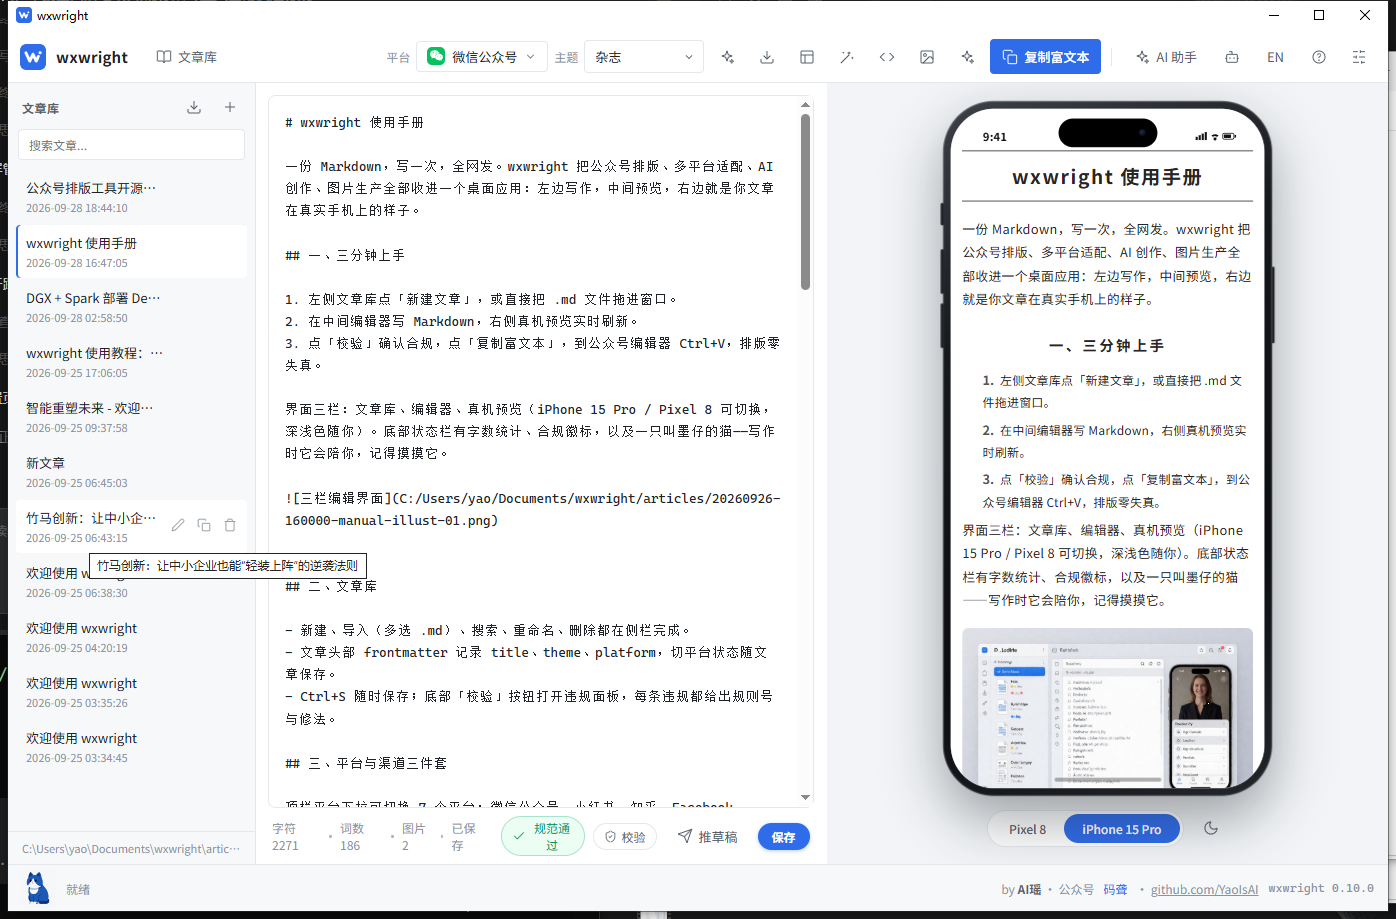
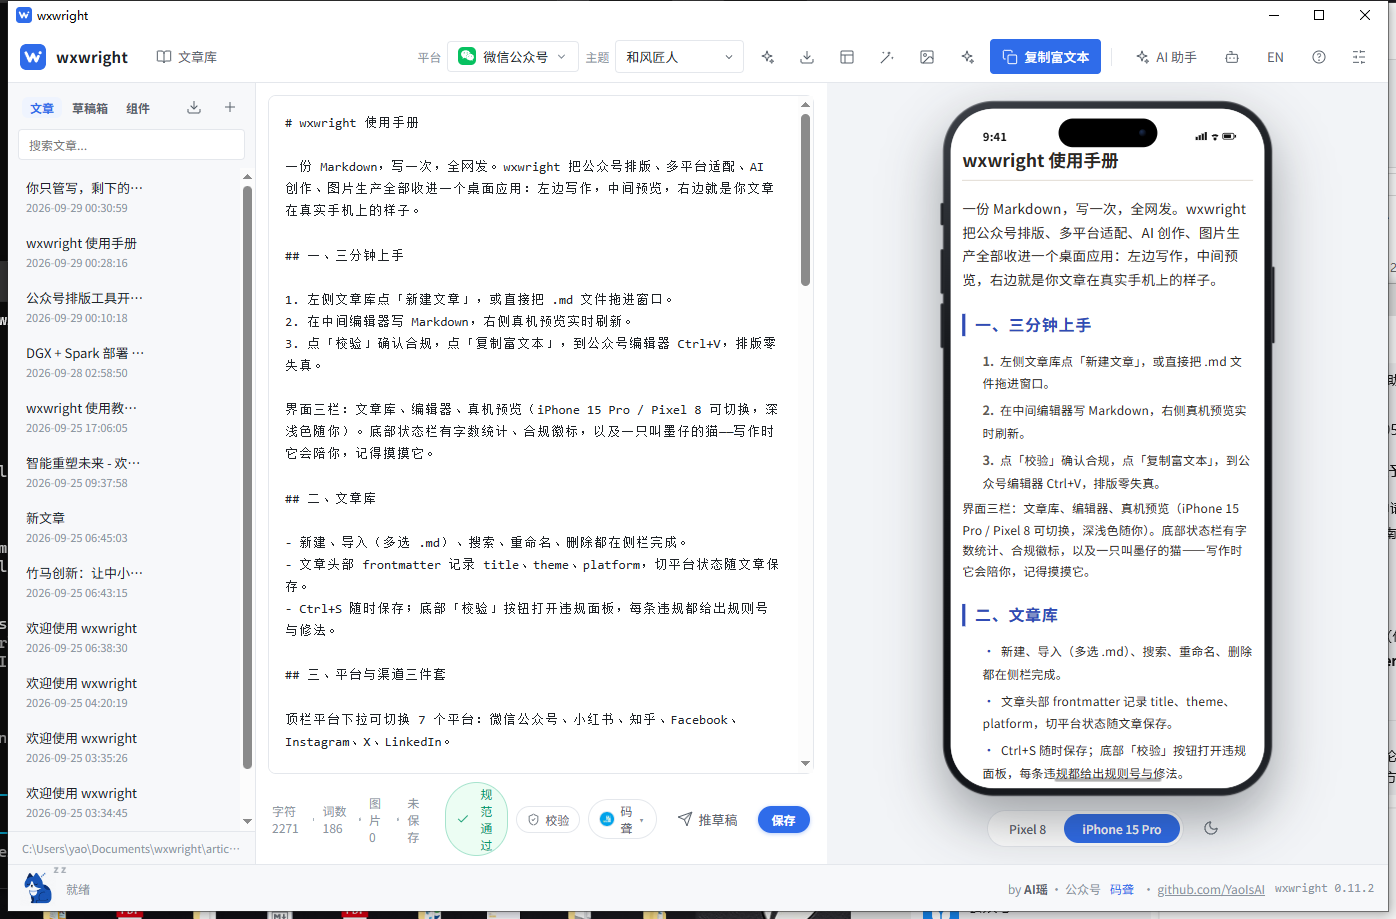
chore: release v0.12.1 - refreshed docs and screenshots
- READMEs: multi-account WeChat binding with avatar switching, the kit's
  vertical cards / parametric AI components / undo / pinning, ComfyUI
  browse actions; download table and examples bumped to 0.12.1
- Illustrated manual: retaken shots for the main window, MP settings
  (account row with avatar), SVG kit (sidebar tab), ComfyUI pane (browse
  buttons) and the help center; text updated to match the new surfaces
- Version bump: Cargo.toml, tauri.conf.json, about line, changelog dated

diff --git a/gui/ui/app.js b/gui/ui/app.js
@@ -141,7 +141,7 @@ const I18N = {
     comfy_launch_label: "启动程序路径（用于一键启动）", comfy_start: "一键启动",
     comfy_browse_models: "获取模型列表", comfy_browse: "浏览",
     comfy_models_ok: (n) => `已拉取 ${n} 个模型，点击输入框即可选择`, comfy_models_none: "未拉取到模型，请确认 ComfyUI 在线且已放好模型",
-    about_line1: "wxwright 0.12.0 · by AI瑶（微信公众号：码聋）",
+    about_line1: "wxwright 0.12.1 · by AI瑶（微信公众号：码聋）",
     about_line2: "写作小宠物「墨仔」住在左下角状态栏，记得去摸摸它。",
     chip_jp: "日系手账", chip_jp_desc: "日系手账风，奶油色底，橙棕强调色，圆角便签卡片，温柔文艺",
     chip_cyber: "赛博科技", chip_cyber_desc: "赛博科技感，深色代码面板，霓虹青蓝强调色，等宽律动",
@@ -299,7 +299,7 @@ const I18N = {
     comfy_launch_label: "Launcher path (for one-click start)", comfy_start: "Start",
     comfy_browse_models: "Fetch models", comfy_browse: "Browse",
     comfy_models_ok: (n) => `Fetched ${n} models - click the input to pick one`, comfy_models_none: "No models returned; check that ComfyUI is online and has checkpoints",
-    about_line1: "wxwright 0.12.0 - by AI Yao (MP: MaLong)",
+    about_line1: "wxwright 0.12.1 - by AI Yao (MP: MaLong)",
     about_line2: "Mozai the writing pet lives in the bottom-left status bar - go pet it.",
     chip_jp: "Journal", chip_jp_desc: "Japanese journal style: cream paper, caramel accent, rounded note cards",
     chip_cyber: "Cyber", chip_cyber_desc: "Cyber tech style: dark code panels, neon cyan-blue accent, mono rhythm",

diff --git a/README.md b/README.md
@@ -36,14 +36,14 @@ The AI assistant drafts with you — streaming, stoppable, and every reply offer
 
 ## Download
 
-Grab an installer from the [Releases page](https://github.com/YaoIsAI/wxwright/releases) (v0.12.0):
+Grab an installer from the [Releases page](https://github.com/YaoIsAI/wxwright/releases) (v0.12.1):
 
 | Platform | File |
 |---|---|
-| Windows | `wxwright_0.12.0_x64-setup.exe` (installer) or `wxwright-cli-windows-x64.zip` (portable CLI) |
-| macOS (Apple silicon) | `wxwright_0.12.0_aarch64.dmg` (not notarized — first launch needs a one-time bypass, see below) |
-| macOS (Intel) | `wxwright_0.12.0_x64.dmg` (same one-time bypass, see below) |
-| Linux | `wxwright_0.12.0_amd64.deb` or `.AppImage` |
+| Windows | `wxwright_0.12.1_x64-setup.exe` (installer) or `wxwright-cli-windows-x64.zip` (portable CLI) |
+| macOS (Apple silicon) | `wxwright_0.12.1_aarch64.dmg` (not notarized — first launch needs a one-time bypass, see below) |
+| macOS (Intel) | `wxwright_0.12.1_x64.dmg` (same one-time bypass, see below) |
+| Linux | `wxwright_0.12.1_amd64.deb` or `.AppImage` |
 | CLI (all platforms) | `wxwright-cli-*.zip / .tar.gz` |
 
 **macOS first launch** (macOS 11+): the dmg is ad-hoc signed but not notarized, so the first launch is blocked by Gatekeeper with "Apple could not verify that wxwright does not contain malware". After dragging `wxwright.app` to Applications, use either of these — **each needs to be done once**:
@@ -64,8 +64,8 @@ Same for the CLI binary after extraction: `xattr -d com.apple.quarantine wxwrigh
 
 **Linux** (x86_64, two formats):
 
-- deb (Debian/Ubuntu family): `sudo apt install ./wxwright_0.12.0_amd64.deb` — dependencies (libwebkit2gtk-4.1-0 / libgtk-3-0) are pulled in by apt automatically. Verified on Ubuntu 24.04: dependency resolution, end-to-end conversion of a Chinese article, and GUI launch all work.
-- AppImage: `chmod +x wxwright_0.12.0_amd64.AppImage && ./wxwright_0.12.0_amd64.AppImage` (no install needed; AppDir structure and embedded binary verified).
+- deb (Debian/Ubuntu family): `sudo apt install ./wxwright_0.12.1_amd64.deb` — dependencies (libwebkit2gtk-4.1-0 / libgtk-3-0) are pulled in by apt automatically. Verified on Ubuntu 24.04: dependency resolution, end-to-end conversion of a Chinese article, and GUI launch all work.
+- AppImage: `chmod +x wxwright_0.12.1_amd64.AppImage && ./wxwright_0.12.1_amd64.AppImage` (no install needed; AppDir structure and embedded binary verified).
 - The Chinese UI needs a CJK font on the system: Ubuntu desktop ships one; on minimal/server installs run `sudo apt install fonts-noto-cjk` first.
 
 Platform support at a glance: Windows 10/11 x64 · macOS 11+ (separate dmgs for Apple silicon and Intel) · Linux x86_64 (webkit2gtk-4.1).
@@ -139,10 +139,11 @@ The GUI adds an **AI theme generator**: describe a style ("deep-space cyberpunk,
 - **Agent integration panel** (robot icon): one-click MCP install into Claude Desktop / Cursor / VS Code / OpenCode, one-click copy of the agent card, CLI cheat sheet. Same engine, same compliance.
 - **AI theme generator**: describe a style, get a brand-new theme validated against the official rules and saved for CLI + GUI.
 - **Poster Studio**: HTML -> PNG locally (SVG foreignObject, offline) with all standard MP cover sizes; AI can generate the poster HTML; export-and-insert into the article.
-- **Interactive SVG kit (sidebar)**: the article library's Components tab keeps 8 classic tap-to-animate WeChat SVG components at hand - slide card, envelope reveal, fade-in slogan, A/B swap, progress fill and more - as thumbnail cards with one-click insert, an accordion editor with live animated preview, and category filters. AI generates brand-new components from a description, and image slots take an upload or an AI-generated picture. SMIL animations follow the official R-1.7 tap rule; the engine re-validates on insert.
+- **Interactive SVG kit (sidebar)**: the article library's Components tab keeps 8 classic tap-to-animate WeChat SVG components at hand - slide card, envelope reveal, fade-in slogan, A/B swap, progress fill and more - as full-width thumbnail cards with one-click insert (undoable), an accordion editor with live animated preview, category filters, pin-to-top and recent-use ordering. AI generates brand-new components that ship with a parameter table (tweak the text / colors / image slots into a new variant), and image slots take an upload or an AI-generated picture; a blank editor links straight into the kit. SMIL animations follow the official R-1.7 tap rule; the engine re-validates on insert.
 - **Realistic device frames**: iPhone 15 Pro (Dynamic Island, physical side keys, home indicator) and Pixel 8 (punch-hole) rendered as true hardware with an under-device switcher; dark/light toggle sits next to it. The preview scales to fit while keeping the real logical resolution.
 - **Asset library**: posters, AI paintings, pasted screenshots and dropped images all land in one managed grid (`Documents/wxwright/assets`) - thumbnail browse, one-click insert into the article, delete.
-- **ComfyUI integration (local AI painting)**: wxwright auto-detects a locally running ComfyUI (default `127.0.0.1:8188`, configurable in Settings). When present, the wand button drives its API for text-to-image and image-to-image (SD workflows, queue + history polling), and outputs flow straight into the asset library and the article. No cloud, no keys.
+- **ComfyUI integration (local AI painting)**: wxwright auto-detects a locally running ComfyUI (default `127.0.0.1:8188`, configurable in Settings). When present, the wand button drives its API for text-to-image and image-to-image (SD workflows, queue + history polling), and outputs flow straight into the asset library and the article. The checkpoint name pulls the live model list for click-to-pick, and the launcher path gets a native file picker. No cloud, no keys.
+- **Multiple WeChat accounts, one-click switching**: bind any number of Official Accounts (optional label; nickname + logo avatar are fetched automatically), and switch the active account from the avatar next to the push button - draft pushes, image uploads and the drafts box all follow it. Each account's secret lives in its own keychain slot.
 - **Compliance badge** lives in the stats row (colored block/warn counts); the violations list is a static panel that never overlaps the AI drawer.
 - **One-click draft-box push** (WeChat): the status row's Push-draft button renders the article with its theme, uploads local images to mmbiz, gates on blocking violations and files it into the MP drafts box.
 - **Writing pet**: 墨仔 (Mozai) - an actual sitting cat with whiskers, blinking eyes and a curled tail. Bounces while you type, sleeps after 45s, hearts on click, party easter egg on triple-clicking the logo. Clicking 码聋 in the status bar pops the WeChat QR code.
@@ -207,7 +208,7 @@ Single process, single binary, zero resident services. Boundaries are compile-ti
 
 ## Release automation
 
-Tag a version (`git tag v0.12.0 && git push origin v0.12.0`) and GitHub Actions builds everything automatically: Windows NSIS installer, macOS dmg, Linux deb + AppImage, CLI archives for all four targets, plus SHA256SUMS - all attached to the Release. **Prefer not to tag locally?** Bump the version (Cargo.toml + tauri.conf.json), push, then open the repo's Actions tab, pick "Release (dispatch)", run it with the version number - the full platform matrix builds and publishes the same way. CI additionally runs the three-platform test matrix and the official puppeteer spec gate. See `docs/release-automation.md` for the release flow and `docs/code-signing.md` for macOS/Windows signing and notarization setup.
+Tag a version (`git tag v0.12.1 && git push origin v0.12.1`) and GitHub Actions builds everything automatically: Windows NSIS installer, macOS dmg, Linux deb + AppImage, CLI archives for all four targets, plus SHA256SUMS - all attached to the Release. **Prefer not to tag locally?** Bump the version (Cargo.toml + tauri.conf.json), push, then open the repo's Actions tab, pick "Release (dispatch)", run it with the version number - the full platform matrix builds and publishes the same way. CI additionally runs the three-platform test matrix and the official puppeteer spec gate. See `docs/release-automation.md` for the release flow and `docs/code-signing.md` for macOS/Windows signing and notarization setup.
 
 ## Author
 

diff --git a/CHANGELOG.md b/CHANGELOG.md
@@ -8,7 +8,7 @@ This project had no git history when the changelog was normalized (2026-09-25),
 so earlier entries describe the feature set as it stood rather than an
 invented commit timeline. `docs/` is the source of truth for the current spec.
 
-## [Unreleased]
+## [0.12.1] - 2026-10-18
 
 ### Added
 - **Accounts show nickname + avatar, not raw appids.** The switcher, the
